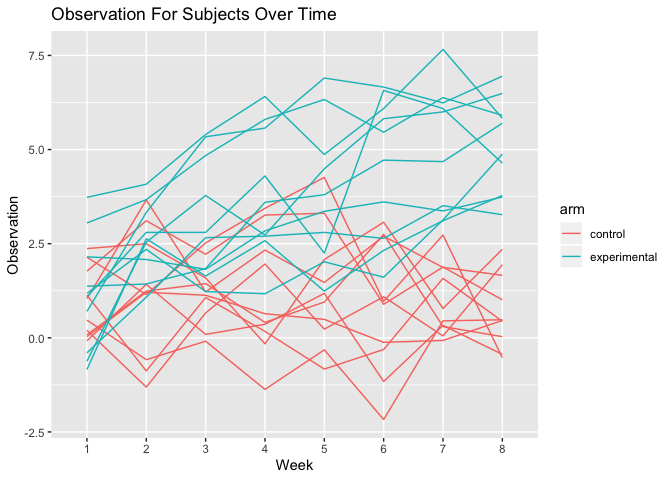
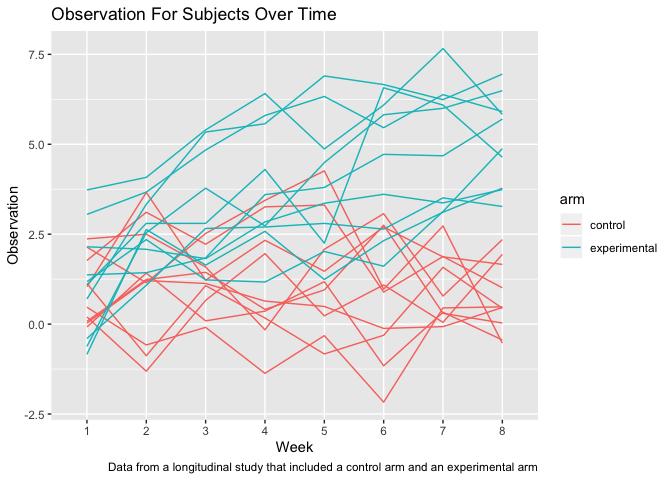
tweaked question 2/added interpretations and ran simulations for question 3

diff --git a/p8105_hw5_bg2645.md b/p8105_hw5_bg2645.md
@@ -84,13 +84,27 @@ longstudy_files %>%
    labs(
     title = "Observation For Subjects Over Time",
     x = "Week",
-    y = "Observation"
+    y = "Observation",
+    caption = "Data from a longitudinal study that included a control arm and an experimental arm"
    )
 ```
 
 ![](p8105_hw5_bg2645_files/figure-gfm/unnamed-chunk-4-1.png)<!-- -->
 
+  - Based on the graph, observation values for subjects in the
+    experimental arm seemed to increase as the weeks progressed - thus
+    in general there was a positive upward trend. However, for
+    participants in the control arm the observation values seemed to
+    stay fairly constant, though with slight fluctuations, as the weeks
+    progressed.
+
 ## Problem 3
+
+Conduct a simulation to explore power in a simple linear regression
+
+  - Create function and set design elements
+
+<!-- end list -->
 
 ``` r
 set.seed(1)
@@ -99,6 +113,69 @@ sim_regression = function(n=30, beta0 = 2, beta1 = 0) {
     x = rnorm(n, mean=0, sd = 1),
     y = beta0 + beta1 * x + rnorm(n, 0, sqrt(50))
     )
-  ls_fit = lm(y ~ x, data = sim_data)
+  ls_fit = lm(y ~ x, data = sim_data) %>%
+  broom::tidy()
+  tibble( 
+    beta1_hat = ls_fit[[2,2]],
+    p_value=ls_fit[[2,5]]
+    )
 }
 ```
+
+  - Generate 10000 datasets from the model
+
+<!-- end list -->
+
+``` r
+set.seed(1)
+
+sim_results = rerun (10000, sim_regression(beta1 = 0)) %>% 
+  bind_rows()
+
+sim_results
+```
+
+    ## # A tibble: 10,000 x 2
+    ##    beta1_hat p_value
+    ##        <dbl>   <dbl>
+    ##  1   0.296     0.798
+    ##  2   0.00648   0.996
+    ##  3  -2.16      0.155
+    ##  4  -0.454     0.718
+    ##  5  -0.514     0.730
+    ##  6   1.71      0.243
+    ##  7  -1.18      0.322
+    ##  8   1.09      0.366
+    ##  9   0.806     0.377
+    ## 10   2.35      0.131
+    ## # … with 9,990 more rows
+
+  - Repeat the above for beta1 ={1,2,3,4,5,6}
+
+<!-- end list -->
+
+``` r
+  new_sim_results = 
+  tibble(new_beta1 = c(1,2,3,4,5,6)) %>% 
+  mutate(
+    output_lists = map(.x = new_beta1, ~rerun(10000, sim_regression(beta1 = .x))),
+    estimate_dfs = map(output_lists, bind_rows)) %>% 
+  select(-output_lists) %>% 
+  unnest(estimate_dfs)
+new_sim_results
+```
+
+    ## # A tibble: 60,000 x 3
+    ##    new_beta1 beta1_hat p_value
+    ##        <dbl>     <dbl>   <dbl>
+    ##  1         1    3.03    0.0247
+    ##  2         1    1.39    0.295 
+    ##  3         1    1.93    0.103 
+    ##  4         1    0.0151  0.990 
+    ##  5         1    0.111   0.944 
+    ##  6         1   -1.24    0.366 
+    ##  7         1    1.02    0.301 
+    ##  8         1    1.82    0.223 
+    ##  9         1    2.35    0.0765
+    ## 10         1    2.46    0.0966
+    ## # … with 59,990 more rows
